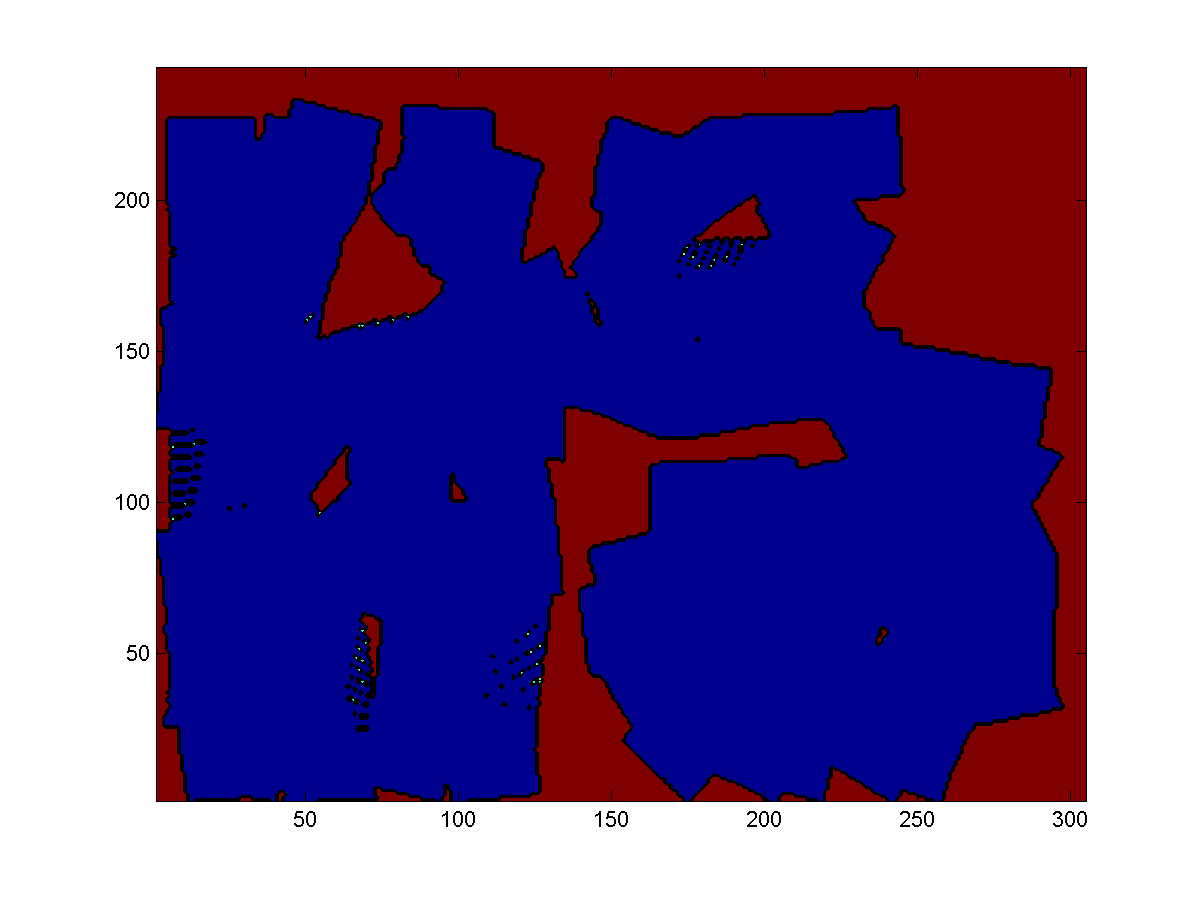
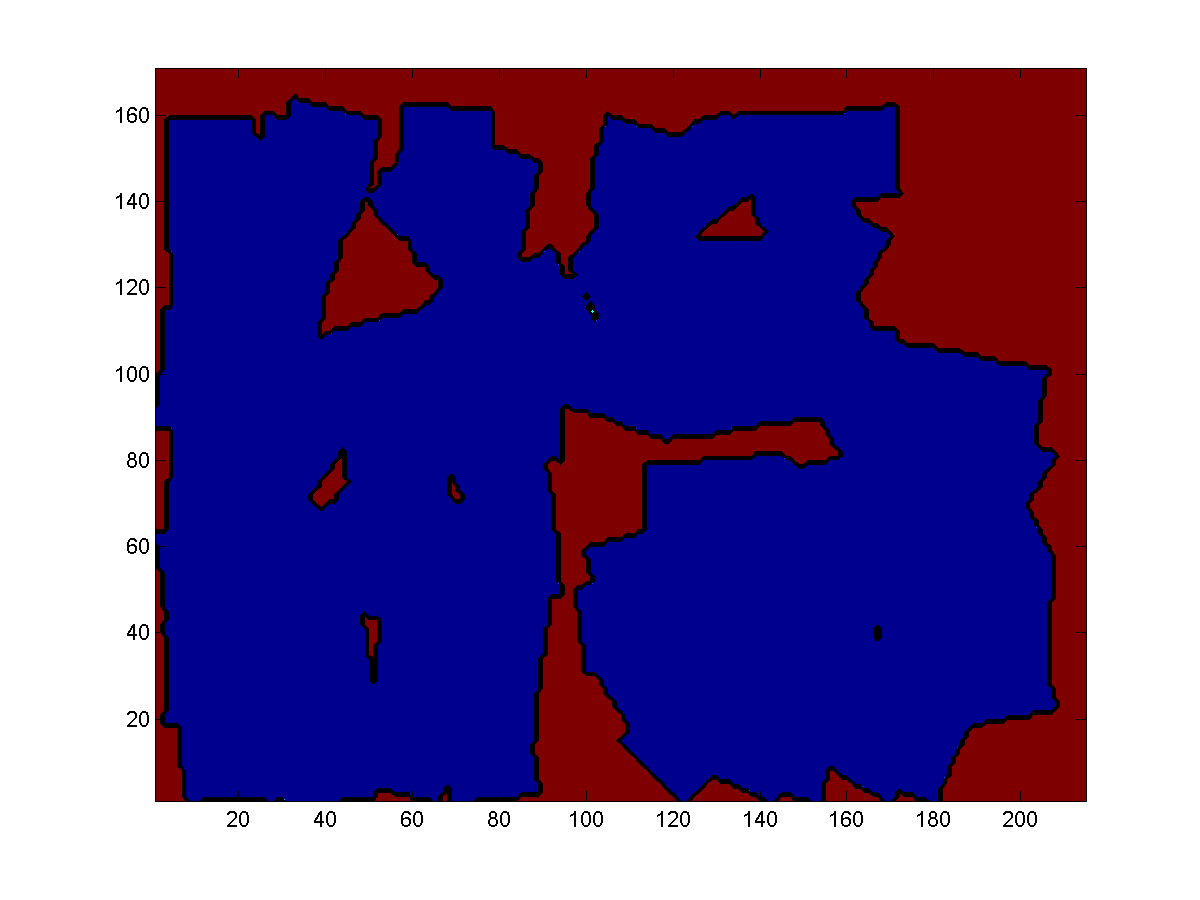
update figures

diff --git a/scripts/vacuum_Coverage_sampled_rev2.m b/scripts/vacuum_Coverage_sampled_rev2.m
@@ -16,7 +16,7 @@ disp('```Initializing parameters and reading .txt file 0% complete')
 %% Create a 3D matrix: side 1 x side 2 x number of frames
 %8 feet x 10 feet x number of frames=> 244 x 305 x number of frames (1 coverage square per cm^2)
 
-subCMres = 1; %magification or shrinkage of grid i.e. subCMres = 2 turns it to a 5mm resolution grid
+subCMres = 0.7; %magification or shrinkage of grid i.e. subCMres = 2 turns it to a 5mm resolution grid
 Side1 = ceil(244 * subCMres); %length of indexes for rows
 Side2 = ceil(306 * subCMres); %length of indexes for cols
 if promptForParameters
@@ -35,6 +35,7 @@ end
 
 %% Read data & initialize 3-D matrix
 numberTable = readtable([PathName, FileName], 'delimiter', 'tab', 'ReadVariableNames', false, 'HeaderLines', 5);
+PathName = PathName(1:end-6); % remove input from path for outputs
 
 % numberTable = readtable('TestVacuumMarkers.txt', 'delimiter', 'tab', 'ReadVariableNames', false, 'HeaderLines', 5);
 numberTable2 = numberTable{1:samplingRate:size(numberTable, 1), 1:7};
@@ -120,10 +121,10 @@ disp(['Max passes = ' num2str(max(max(passesMatrix))) ' passes'])
 disp(['Min coverage = ' num2str(min(min(passesMatrix))) ' passes'])
 figure; contourf(passesMatrix);
 savefig([PathName, FileName(1:end-4), '_passes'])
-print('-dpng', [PathName, FileName(1:end-4), '_passes'])
+print('-dpng', [PathName, '/output/', FileName(1:end-4), '_passes'])
 figure; noPass=(passesMatrix==0)*1; contourf(noPass)
 savefig([PathName, FileName(1:end-4), '_noPasses'])
-print('-dpng', [PathName, FileName(1:end-4), '_noPasses'])
+print('-dpng', [PathName, '/output/', FileName(1:end-4), '_noPasses'])
 clear clearingUniqueLineIndexes
 
 %% Calculate coverage
@@ -159,12 +160,12 @@ end
 percentCovered = percentCovered / (size(simpleMatrix, 1) * size(simpleMatrix, 2));
 
 figure; area(percentCovered);
-savefig([PathName, FileName(1:end - 4), '_percentCovered'])
-print('-dpng', [PathName, FileName(1:end - 4), '_percentCovered'])
+savefig([PathName, '/output/', FileName(1:end - 4), '_percentCovered'])
+print('-dpng', [PathName, '/output/', FileName(1:end - 4), '_percentCovered'])
 disp(['Final Coverage = ' num2str(max(percentCovered) * 100) '%'])
 
 vacCoverageData={{FileName}, {percentCovered}, {passesMatrix}};
-save([FileName(1:end - 4), '_vacCoverageData'], 'vacCoverageData')
+save([PathName, '/output/', FileName(1:end - 4), '_vacCoverageData'], 'vacCoverageData')
 
 
 %% Make Video of Passes- Takes several minutes
